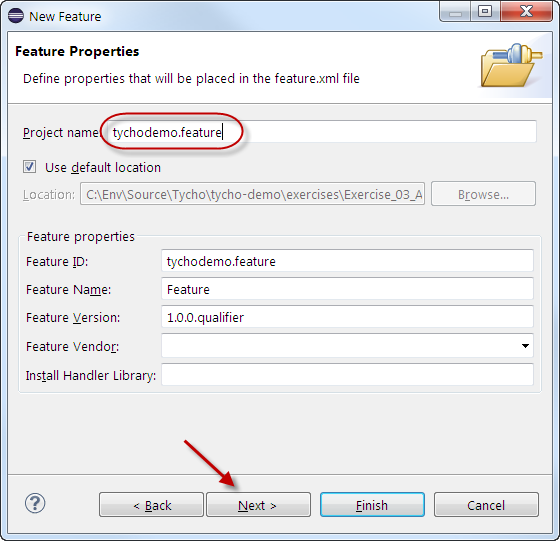
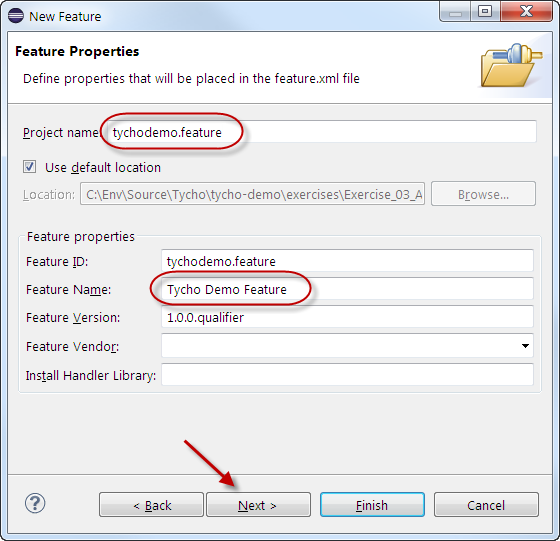
do enter feature name

Changed region(s): [[0.2732, 0.4732, 0.5768, 0.5915]]

diff --git a/exercises/Exercise_03_Add_Feature/tychodemo.parent/README.html b/exercises/Exercise_03_Add_Feature/tychodemo.parent/README.html
@@ -39,7 +39,7 @@
 			<li><tt>File > New > Other > Plug-in Development > Feature Project</tt>
 				<br /><img src="../resources/new_feature.png" />
 			</li>
-			<li>Enter the project name <tt>tychodemo.feature</tt>
+			<li>Enter the project name <tt>tychodemo.feature</tt> and the feature name <tt>Tycho Demo Feature</tt>
 				<br /><img src="../resources/feature_name.png" />
 			</li>
 			<li>Press <tt>Next &gt;</tt> and select the <tt>tychodemo.bundle</tt>
